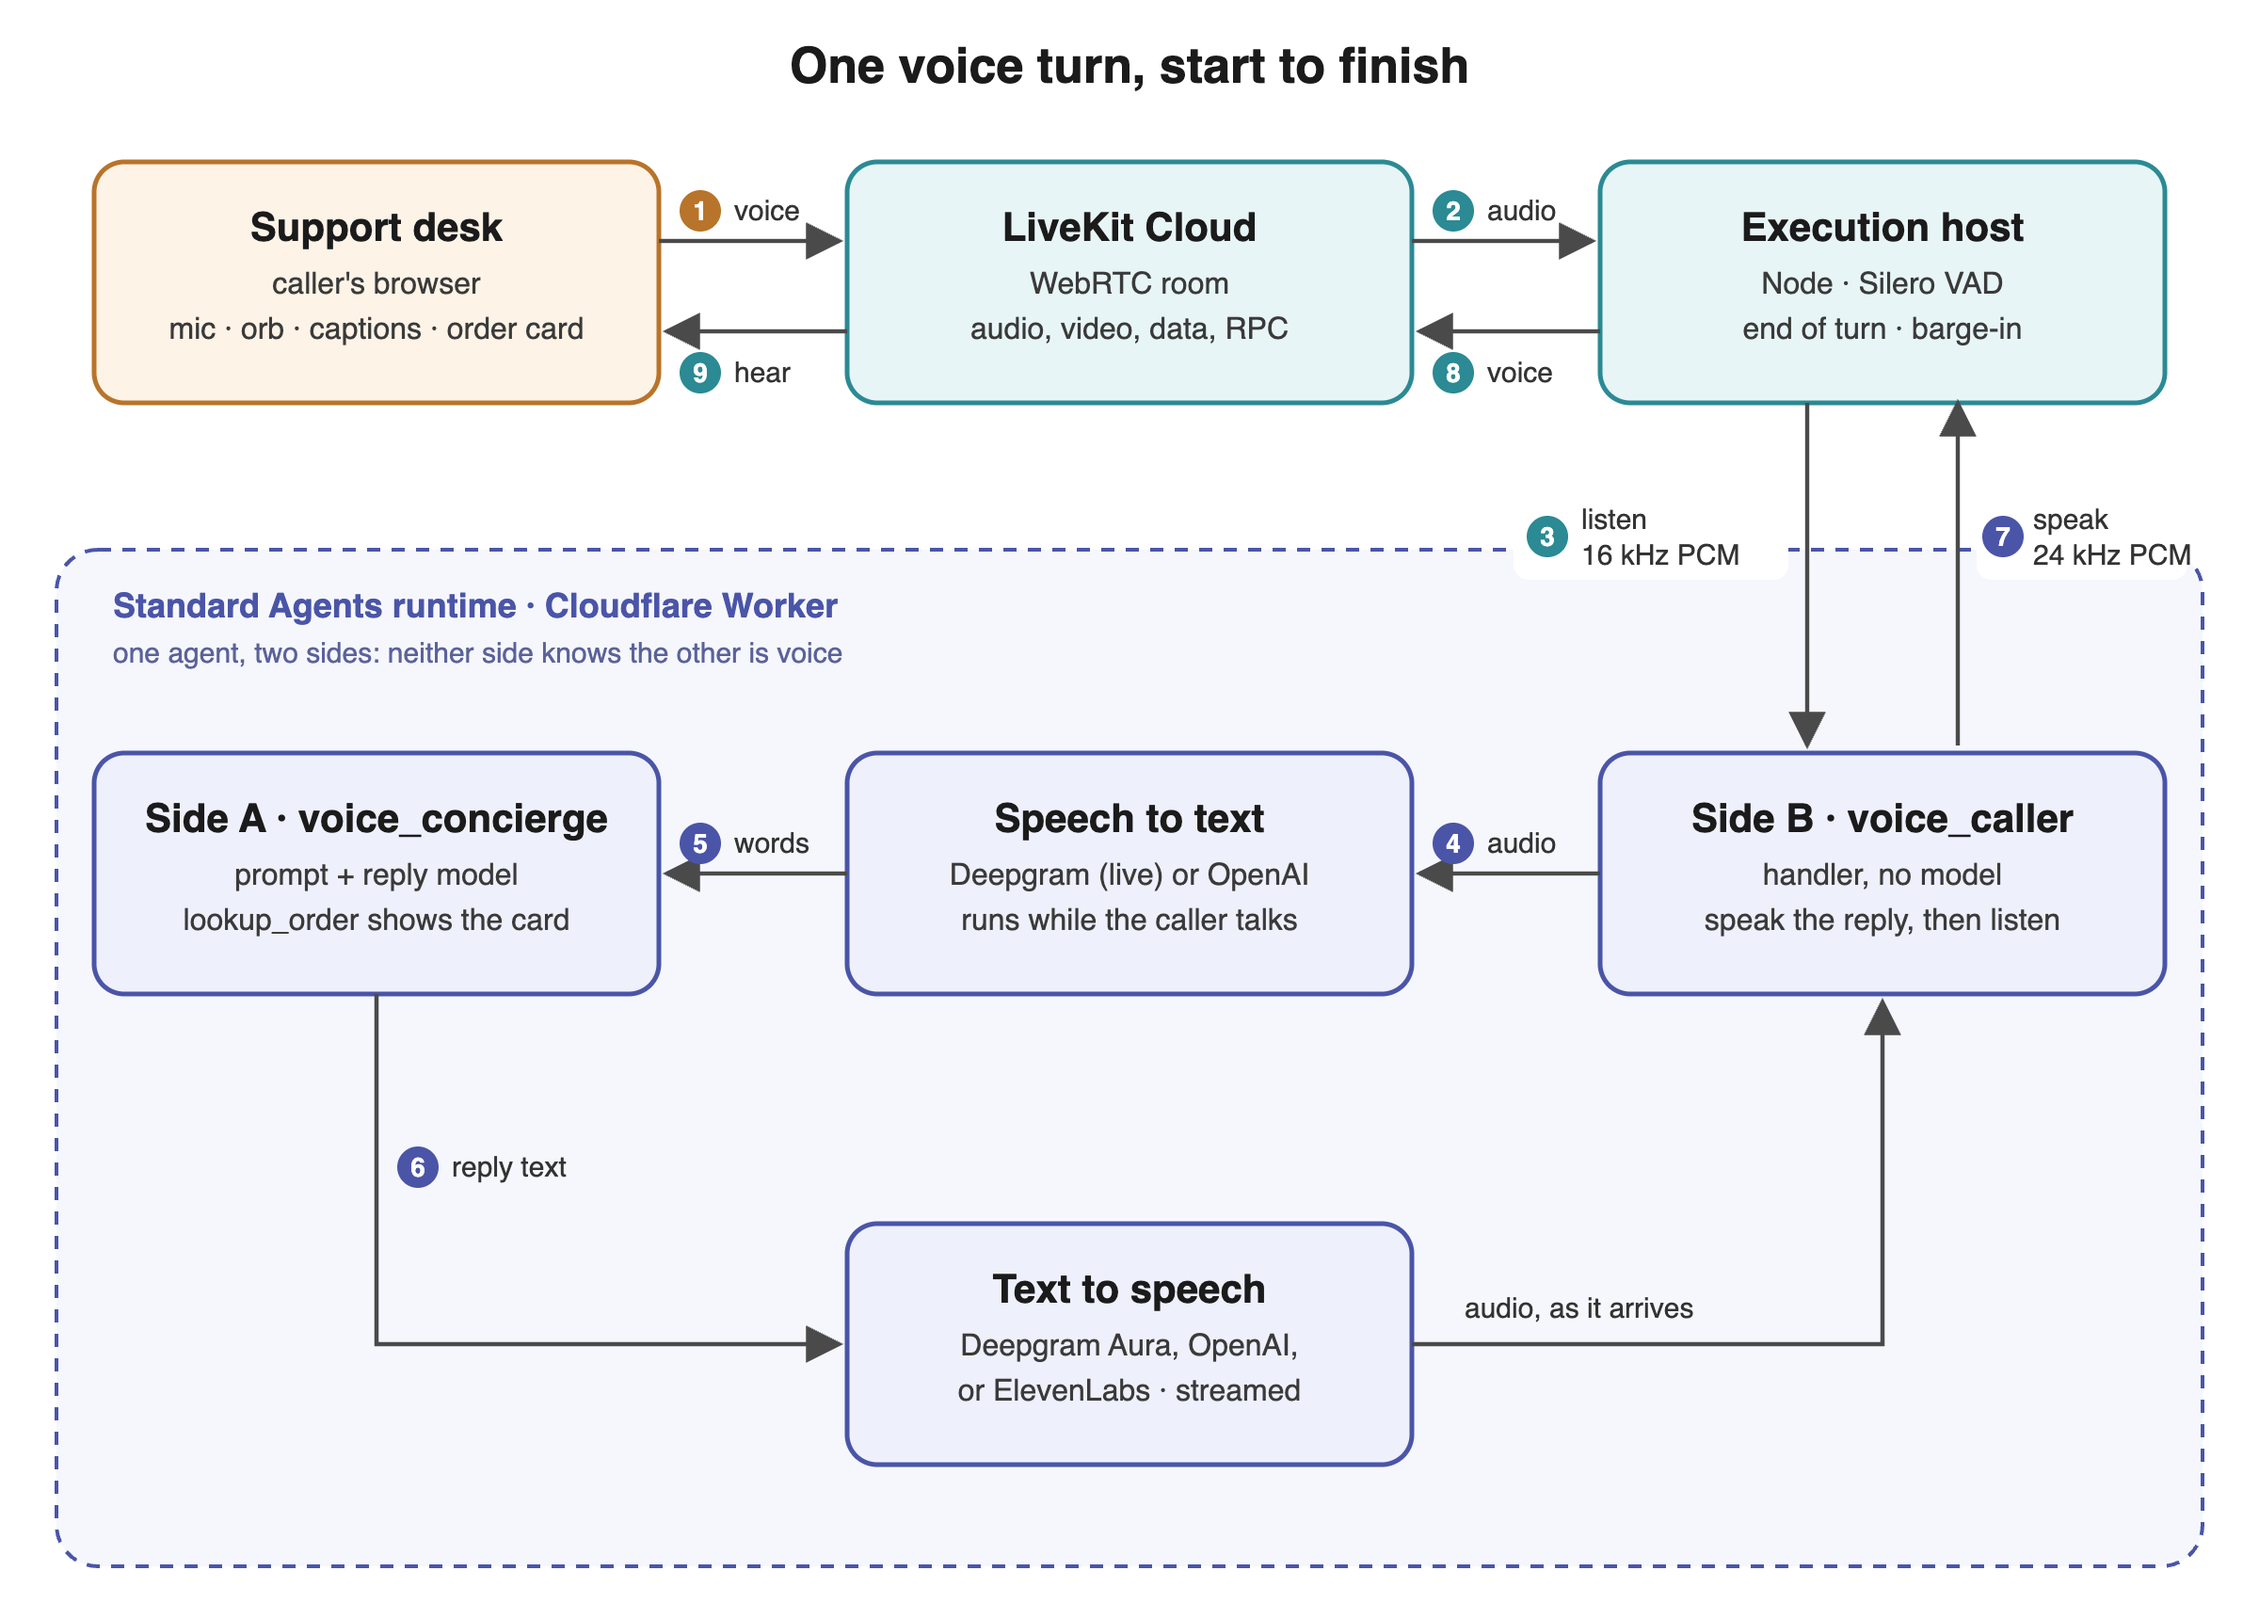
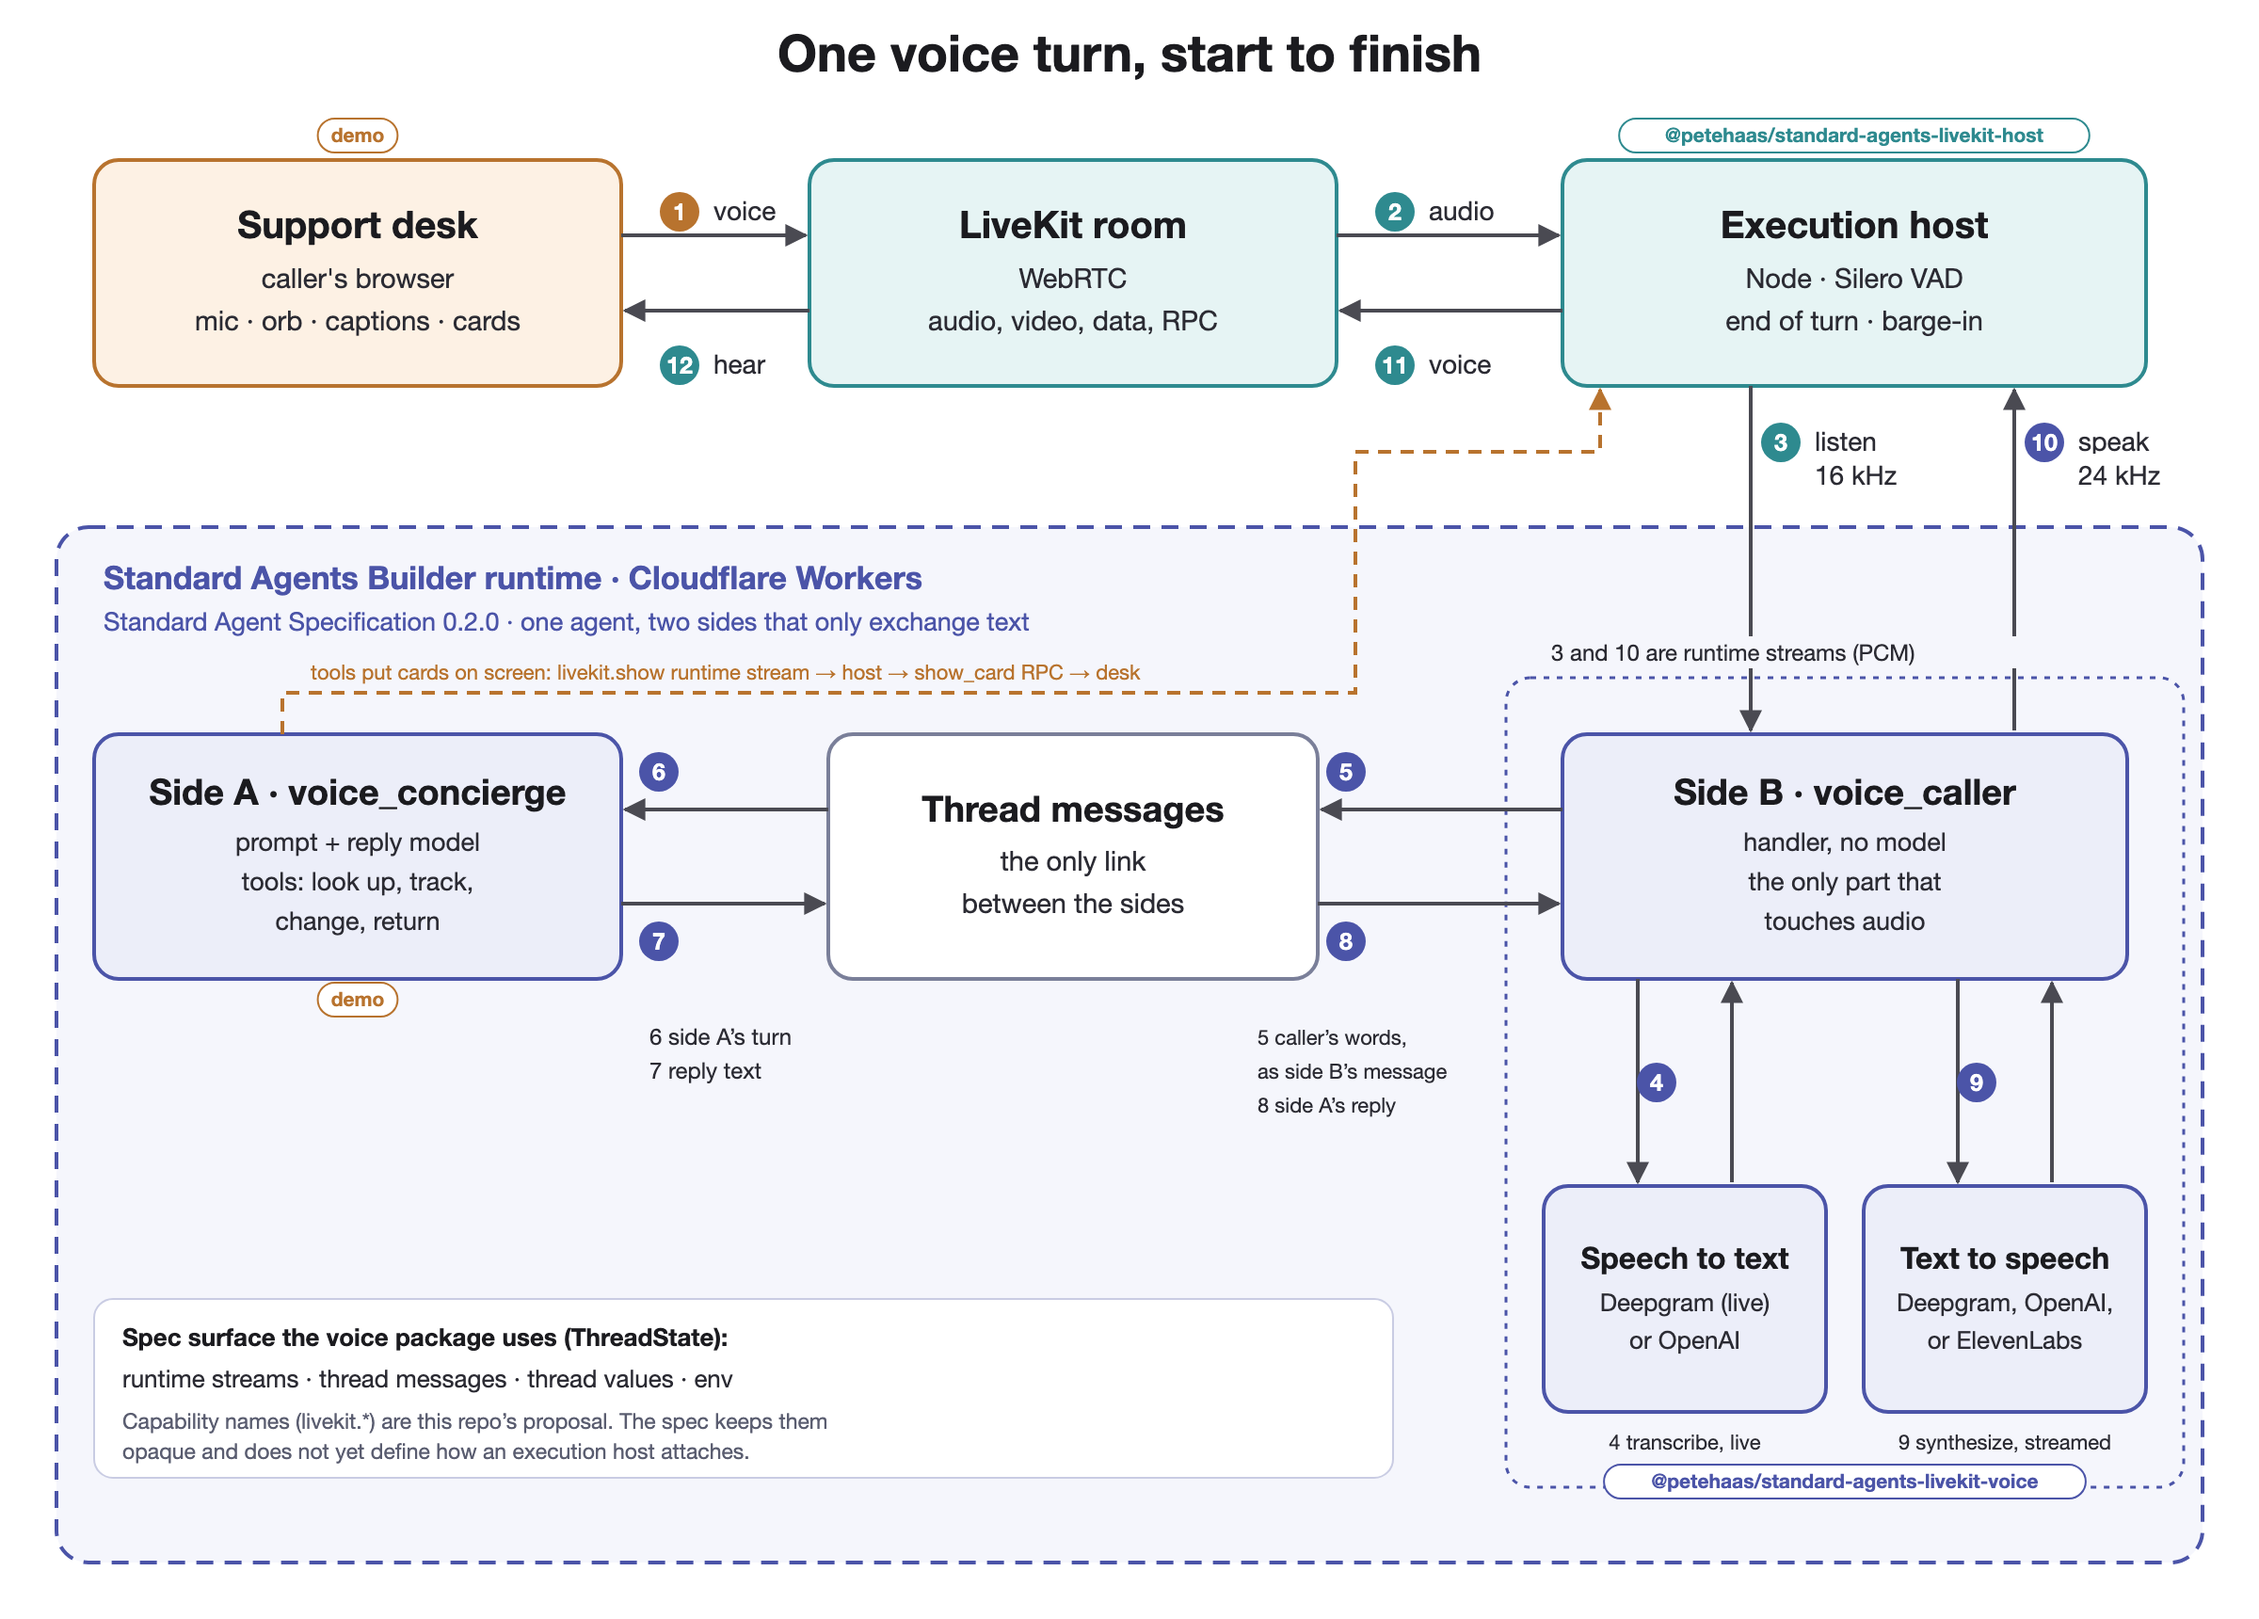
Redraw the voice-turn diagram for the new architecture
- Side B is the only part that touches audio: it calls speech to text and
  text to speech, and the two sides exchange text only through thread
  messages. The old diagram drew side A calling the speech services.
- Name the runtime (Standard Agents Builder on Cloudflare Workers) and the
  spec version, and label listen and speak as runtime streams.
- Tag the two packages and the demo parts.
- Show how tool cards reach the screen: livekit.show runtime stream, then
  the host, then the show_card RPC.
- Add the spec surface the voice package uses.

The diagram is now drawn from diagrams/voice-architecture.py, with the SVG
committed next to the PNG, so it can be edited instead of redrawn.

diff --git a/diagrams/voice-architecture.py b/diagrams/voice-architecture.py
@@ -1,0 +1,103 @@
+"""Draws diagrams/voice-architecture.svg. Run: python3 diagrams/voice-architecture.py diagrams/voice-architecture.svg
+Then rasterize the SVG to voice-architecture.png at 2400 px wide (any SVG renderer)."""
+import sys
+W,H=2400,1720
+out=[]
+def a(s): out.append(s)
+ORANGE=('#fdf1e4','#b8732e'); TEAL=('#e6f4f4','#2e8a8f'); IND=('#eceef9','#4b54a8'); NEU=('#ffffff','#7a7f99')
+FONT="font-family='-apple-system, Helvetica Neue, Helvetica, Arial, sans-serif'"
+def box(x,y,w,h,col,title,lines,ts=40,ls=29):
+    a(f"<rect x='{x}' y='{y}' width='{w}' height='{h}' rx='26' fill='{col[0]}' stroke='{col[1]}' stroke-width='4'/>")
+    n=len(lines); cy=y+h/2-(n*ls*1.55)/2
+    a(f"<text x='{x+w/2}' y='{cy+8}' text-anchor='middle' font-size='{ts}' font-weight='700' fill='#1b1b1f'>{title}</text>")
+    for i,l in enumerate(lines):
+        a(f"<text x='{x+w/2}' y='{cy+ts*0.4+ (i+1)*ls*1.55}' text-anchor='middle' font-size='{ls}' fill='#2b2b33'>{l}</text>")
+def tag(x,y,text,col,anchor='start'):
+    w=len(text)*12.2+36
+    x0 = x if anchor=='start' else x-w/2
+    a(f"<rect x='{x0}' y='{y-24}' width='{w}' height='36' rx='18' fill='#ffffff' stroke='{col}' stroke-width='2'/>")
+    a(f"<text x='{x0+w/2}' y='{y+1}' text-anchor='middle' font-size='21' font-weight='600' fill='{col}'>{text}</text>")
+def arrow(pts,dashed=False,color='#4a4a52'):
+    d='M'+' L'.join(f'{px},{py}' for px,py in pts)
+    da=" stroke-dasharray='14 10'" if dashed else ''
+    a(f"<path d='{d}' fill='none' stroke='{color}' stroke-width='4'{da} marker-end='url(#ah{'d' if dashed else ''})'/>")
+def badge(x,y,n,col):
+    a(f"<circle cx='{x}' cy='{y}' r='21' fill='{col}'/><text x='{x}' y='{y+9}' text-anchor='middle' font-size='25' font-weight='700' fill='#fff'>{n}</text>")
+def label(x,y,n,col,lines,bg=False):
+    badge(x,y,n,col)
+    for i,l in enumerate(lines):
+        if bg:
+            w=len(l)*14.5+16
+            a(f"<rect x='{x+30}' y='{y-24+i*36}' width='{w}' height='34' fill='#ffffff'/>")
+        a(f"<text x='{x+36}' y='{y+9+i*36}' font-size='28' fill='#2b2b33'>{l}</text>")
+def note(x,y,lines,col='#4b54a8',size=26,weight='400'):
+    for i,l in enumerate(lines):
+        a(f"<text x='{x}' y='{y+i*36}' font-size='{size}' font-weight='{weight}' fill='{col}'>{l}</text>")
+
+a(f"<svg xmlns='http://www.w3.org/2000/svg' viewBox='0 0 {W} {H}' width='{W}' height='{H}' {FONT}>")
+a("<defs><marker id='ah' viewBox='0 0 10 10' refX='9' refY='5' markerWidth='6' markerHeight='6' orient='auto-start-reverse'><path d='M0,0 L10,5 L0,10 z' fill='#4a4a52'/></marker>"
+  "<marker id='ahd' viewBox='0 0 10 10' refX='9' refY='5' markerWidth='6' markerHeight='6' orient='auto-start-reverse'><path d='M0,0 L10,5 L0,10 z' fill='#b8732e'/></marker></defs>")
+a(f"<rect width='{W}' height='{H}' fill='#ffffff'/>")
+a(f"<text x='{W/2}' y='76' text-anchor='middle' font-size='54' font-weight='700' fill='#1b1b1f'>One voice turn, start to finish</text>")
+
+# Top row
+box(100,170,560,240,ORANGE,'Support desk',["caller's browser","mic · orb · captions · cards"])
+box(860,170,560,240,TEAL,'LiveKit room',['WebRTC','audio, video, data, RPC'])
+box(1660,170,620,240,TEAL,'Execution host',['Node · Silero VAD','end of turn · barge-in'])
+tag(380,150,'demo','#b8732e','mid')
+tag(1970,150,'@petehaas/standard-agents-livekit-host','#2e8a8f','mid')
+
+arrow([(660,250),(856,250)]); label(722,225,1,'#b8732e',['voice'])
+arrow([(1420,250),(1656,250)]); label(1482,225,2,'#2e8a8f',['audio'])
+arrow([(1660,330),(1424,330)]); label(1482,388,11,'#2e8a8f',['voice'])
+arrow([(860,330),(664,330)]); label(722,388,12,'#2e8a8f',['hear'])
+
+# Runtime container
+a("<rect x='60' y='560' width='2280' height='1100' rx='34' fill='#f5f6fc' stroke='#4b54a8' stroke-width='4' stroke-dasharray='18 12'/>")
+note(110,626,['Standard Agents Builder runtime · Cloudflare Workers'],size=34,weight='700')
+note(110,670,['Standard Agent Specification 0.2.0 · one agent, two sides that only exchange text'],size=27)
+
+# voice package container
+a("<rect x='1600' y='720' width='720' height='860' rx='26' fill='none' stroke='#4b54a8' stroke-width='3' stroke-dasharray='6 8'/>")
+tag(1960,1580,'@petehaas/standard-agents-livekit-voice','#4b54a8','mid')
+
+box(100,780,560,260,IND,'Side A · voice_concierge',['prompt + reply model','tools: look up, track,','change, return'],ts=38,ls=27)
+tag(380,1068,'demo','#b8732e','mid')
+box(880,780,520,260,NEU,'Thread messages',['the only link','between the sides'],ts=38)
+box(1660,780,600,260,IND,'Side B · voice_caller',['handler, no model','the only part that','touches audio'],ts=38,ls=27)
+box(1640,1260,300,240,IND,'Speech to text',['Deepgram (live)','or OpenAI'],ts=32,ls=26)
+box(1980,1260,300,240,IND,'Text to speech',['Deepgram, OpenAI,','or ElevenLabs'],ts=32,ls=26)
+
+# host <-> side B (runtime streams)
+arrow([(1860,410),(1860,776)]); label(1892,470,3,'#2e8a8f',['listen','16 kHz'],bg=True)
+arrow([(2140,776),(2140,414)]); label(2172,470,10,'#4b54a8',['speak','24 kHz'],bg=True)
+a("<rect x='1636' y='676' width='650' height='34' fill='#f5f6fc'/>")
+note(1648,702,['3 and 10 are runtime streams (PCM)'],col='#2b2b33',size=24)
+
+# B <-> thread
+arrow([(1660,860),(1404,860)]); label(1430,820,5,'#4b54a8',[''])
+arrow([(1400,960),(1656,960)]); label(1430,1000,8,'#4b54a8',[''])
+note(1336,1110,['5  caller’s words,','    as side B’s message','8  side A’s reply'],col='#2b2b33',size=22)
+# thread <-> A
+arrow([(880,860),(664,860)]); label(700,820,6,'#4b54a8',[''])
+arrow([(660,960),(876,960)]); label(700,1000,7,'#4b54a8',[''])
+note(690,1110,['6  side A’s turn','7  reply text'],col='#2b2b33',size=24)
+
+# B <-> STT / TTS
+arrow([(1740,1040),(1740,1256)]); arrow([(1840,1256),(1840,1044)]); label(1760,1150,4,'#4b54a8',[''])
+arrow([(2080,1040),(2080,1256)]); arrow([(2180,1256),(2180,1044)]); label(2100,1150,9,'#4b54a8',[''])
+a("<text x='1790' y='1540' text-anchor='middle' font-size='22' fill='#2b2b33'>4  transcribe, live</text><text x='2130' y='1540' text-anchor='middle' font-size='22' fill='#2b2b33'>9  synthesize, streamed</text>")
+
+# cards path (dashed)
+arrow([(300,780),(300,736),(1440,736),(1440,480),(1700,480),(1700,414)],dashed=True,color='#b8732e')
+note(330,722,['tools put cards on screen: livekit.show runtime stream → host → show_card RPC → desk'],col='#b8732e',size=22)
+
+# spec note
+a("<rect x='100' y='1380' width='1380' height='190' rx='20' fill='#ffffff' stroke='#c9cce3' stroke-width='2'/>")
+note(130,1430,['Spec surface the voice package uses (ThreadState):'],col='#1b1b1f',size=26,weight='700')
+note(130,1474,['runtime streams · thread messages · thread values · env'],col='#2b2b33',size=26)
+note(130,1518,['Capability names (livekit.*) are this repo’s proposal. The spec keeps them'],col='#5a5d70',size=23)
+note(130,1550,['opaque and does not yet define how an execution host attaches.'],col='#5a5d70',size=23)
+
+a("</svg>")
+open(sys.argv[1],'w').write('\n'.join(out))

diff --git a/README.md b/README.md
@@ -10,7 +10,9 @@ The Standard Agent Specification has no voice support today. This repo shows tha
 - **Only spec APIs on the agent side.** The voice code uses `ThreadState` from the spec (runtime streams, thread values, messages, env), so it should run on any runtime that implements runtime streams.
 - **Capability names are a proposal.** The spec treats capability names as opaque and defines none for audio. `livekit.speak`, `livekit.listen`, and the rest are this repo's contract, offered as a starting point for a shared vocabulary ([docs/bridge-protocol.md](docs/bridge-protocol.md)).
 
-![One voice turn: the caller's browser, LiveKit, the execution host, and the Standard Agents runtime with its two sides, speech to text, and text to speech](diagrams/voice-architecture.png)
+![One voice turn in 12 steps: the caller's browser, LiveKit, and the execution host; inside the Standard Agents Builder runtime, side B (the only part that touches audio, with speech to text and text to speech) and side A exchange text only through thread messages. Tool cards reach the screen over the livekit.show runtime stream.](diagrams/voice-architecture.png)
+
+The diagram is drawn by [diagrams/voice-architecture.py](diagrams/voice-architecture.py); edit that and regenerate the SVG.
 
 ## How a turn works
 
